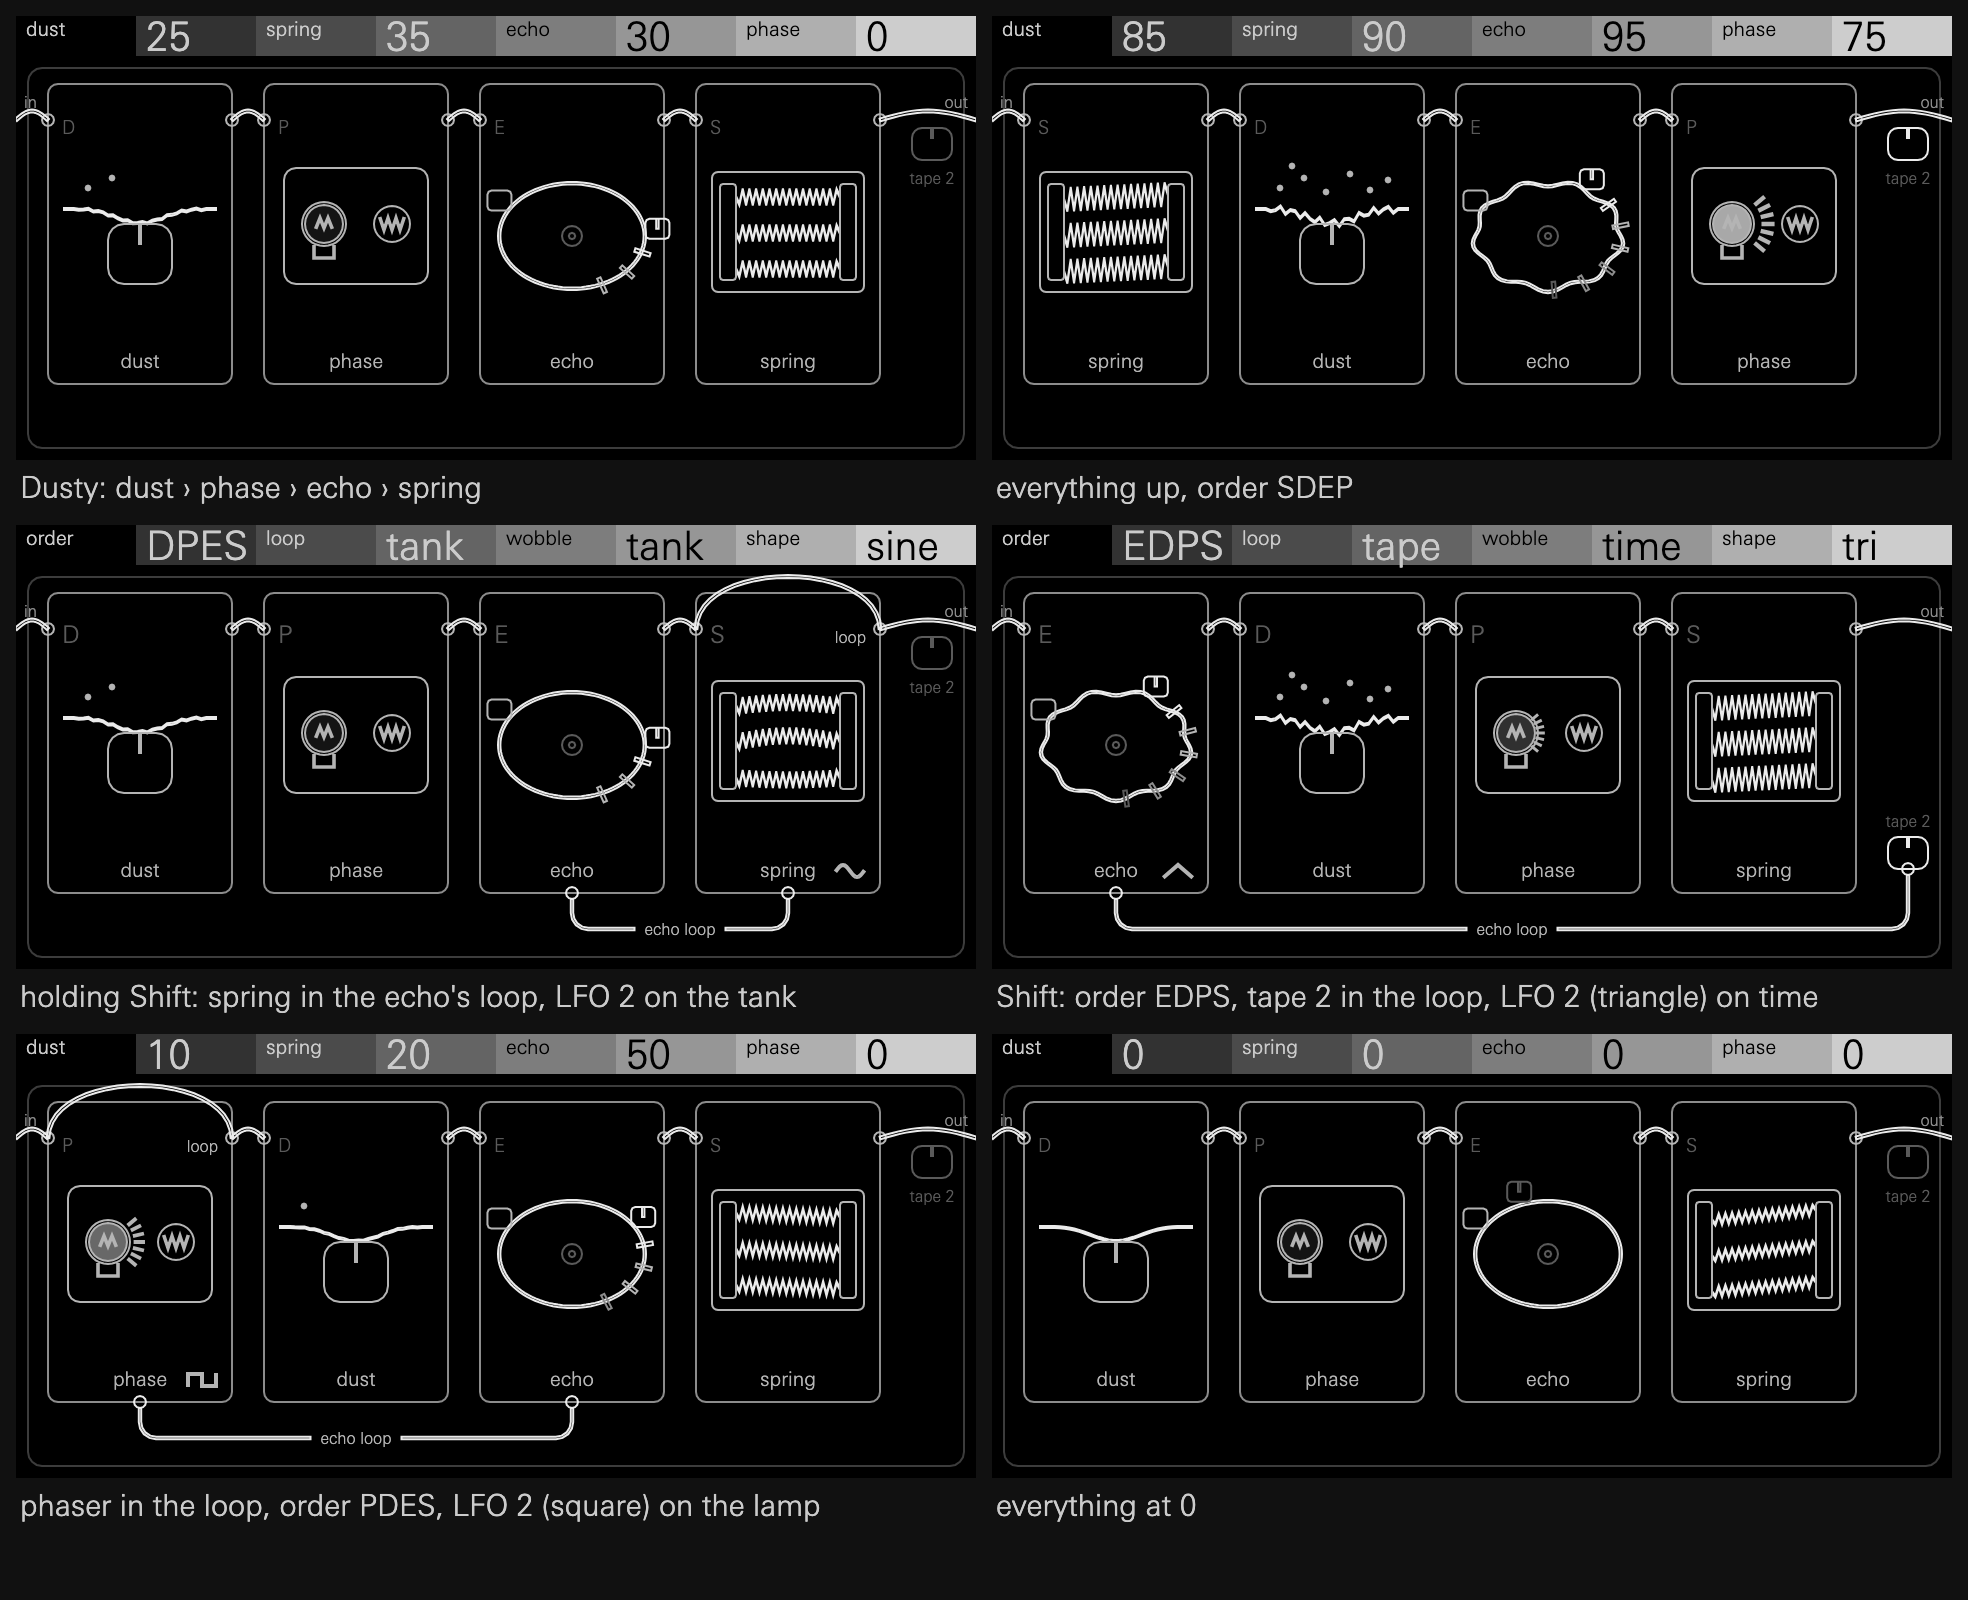
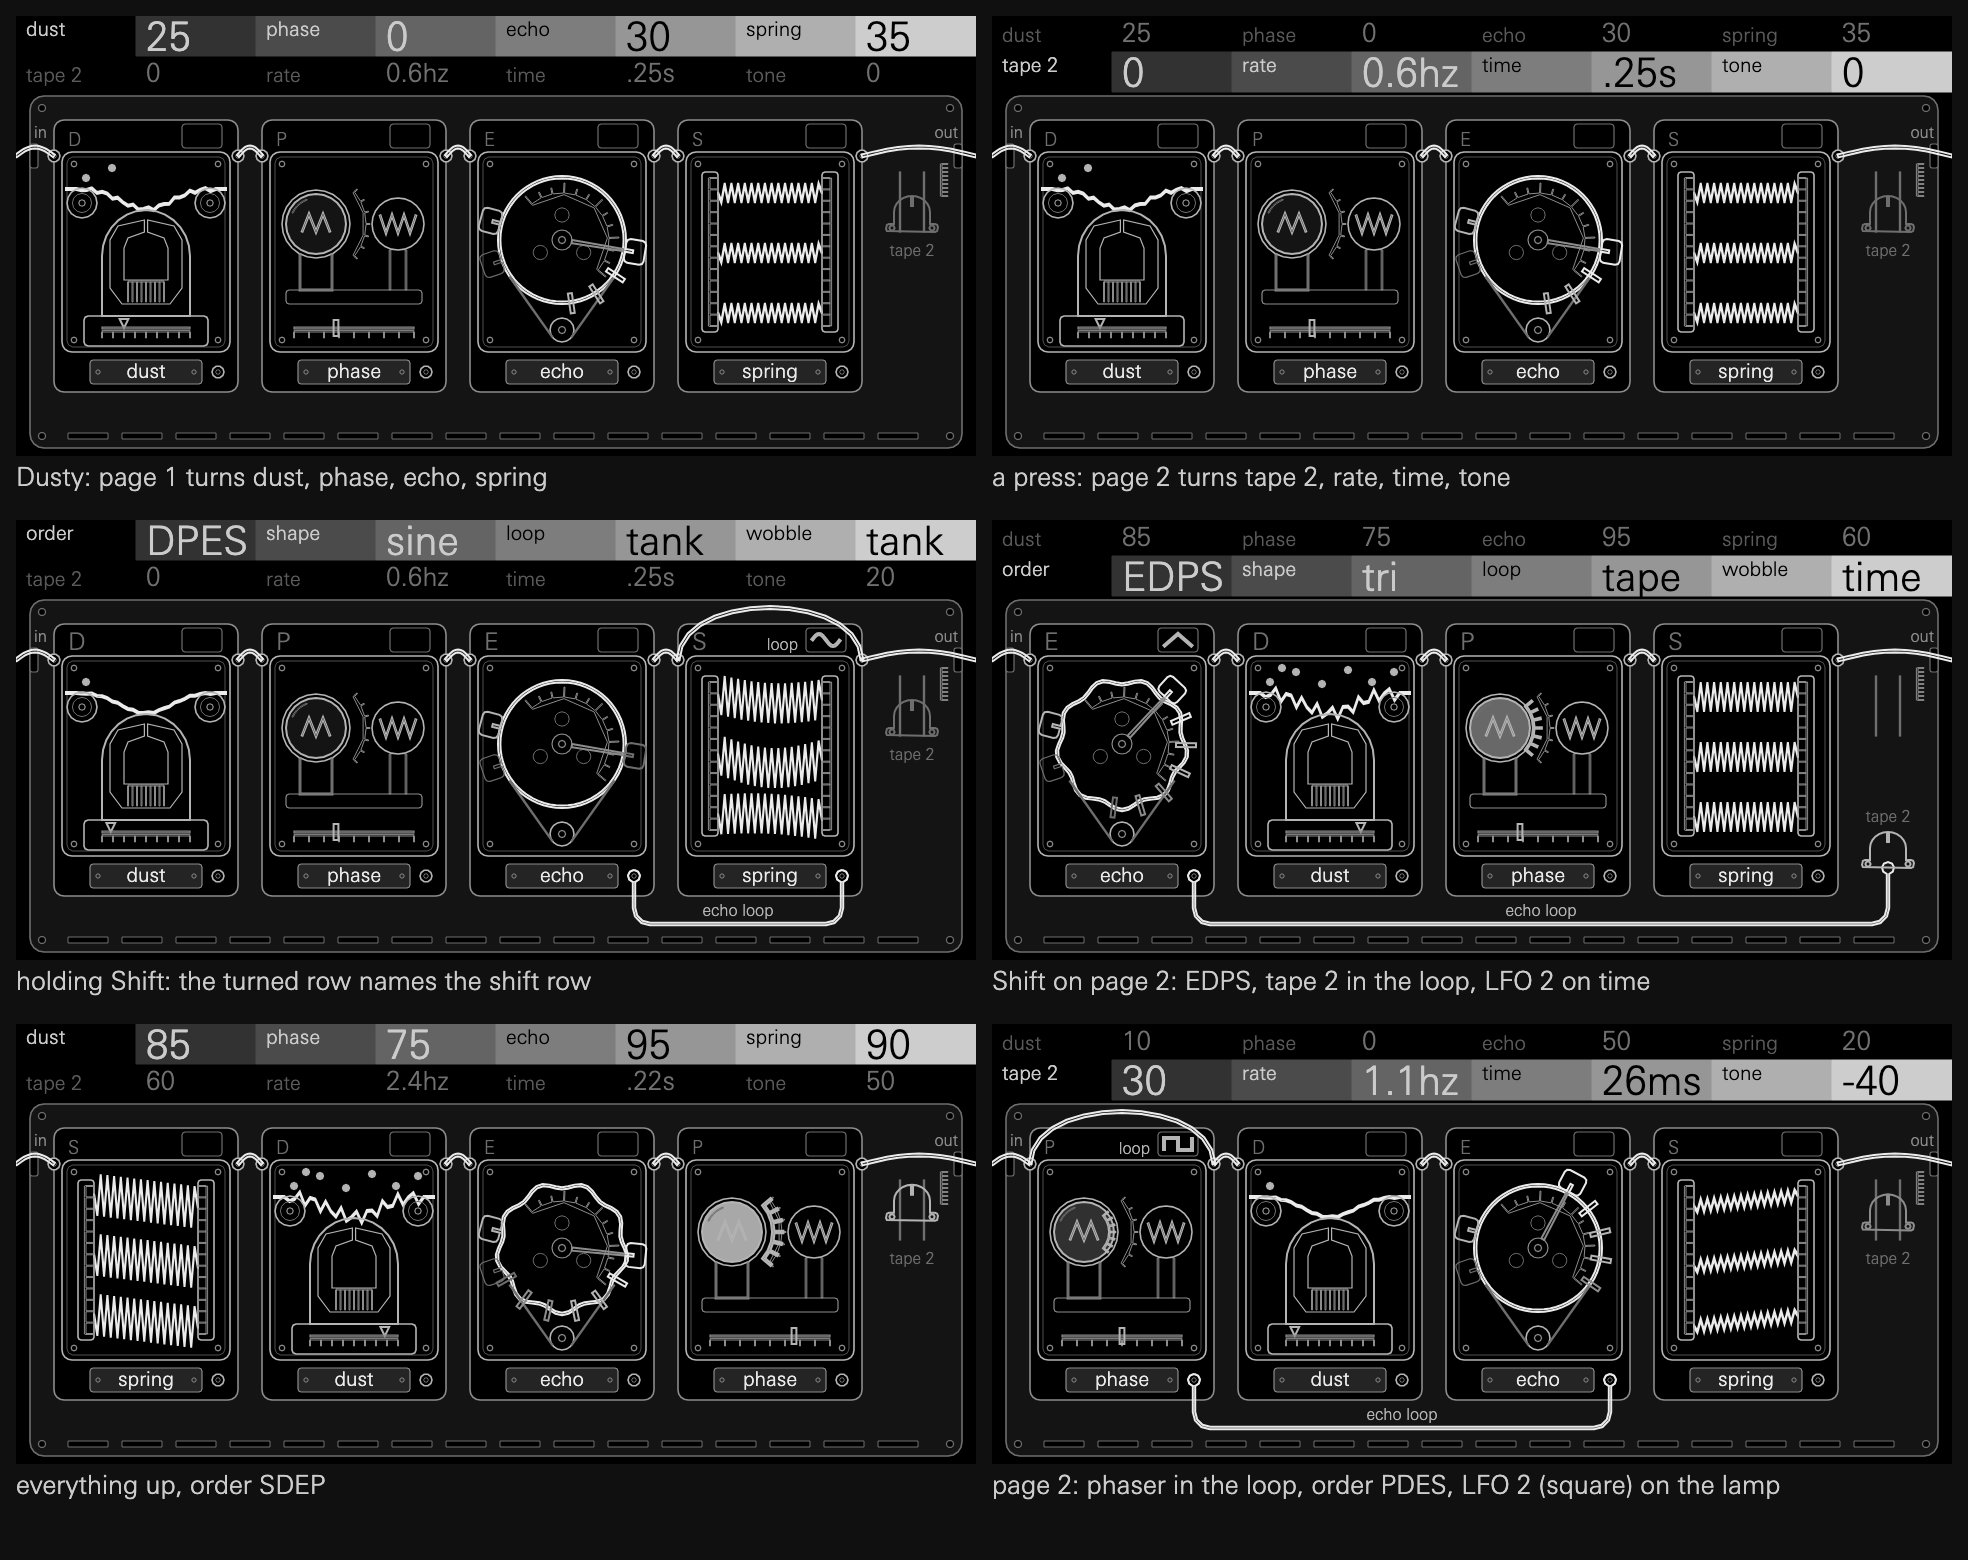
Lint's screens and READMEs for the chassis

Changed region(s): [[0.0, 0.2769, 0.9919, 0.9538], [0.0, 0.0, 0.9919, 0.2462]]

diff --git a/lint/README.md b/lint/README.md
@@ -9,7 +9,7 @@ patched into the echo's feedback loop, and two LFOs move them.
 | --- | --- | --- | --- | --- |
 | Page 1 | dust: tape 1, diode types I..V | phase: depth, wet, feedback | echo: wet and feedback; Madness above 85% | spring: drive and wet |
 | Page 2 (press) | tape 2: after the chain | rate: LFO 1, 0.17..7.5 Hz | time: 3..650 ms | tone: the tank's tilt |
-| Shift | order: DPES, DEPS, PDES, DSPE, SDEP, EDPS | shape: both LFOs (sine, tri, sqr) | loop: what's in the echo's feedback (off, tape 2, phase, tank) | wobble: LFO 2's target (off, time, tank, phase) |
+| Shift | order: DPES, DEPS, PDES, DSPE, SDEP, EDPS | shape: both LFOs (sine, tri, sqr) | loop: what's in the echo's feedback (off, tape, lamp, tank) | wobble: LFO 2's target (off, time, tank, lamp) |
 
 Page 1's encoders follow the default order, DPES, and each control on page 2
 and the shift row sits under the section it shapes. Both pages show at once,
@@ -51,21 +51,25 @@ fade in from clean over the first quarter of their controls.
 
 ![Lint's screen in six settings](screens.png)
 
-Under the two pages, the box seen from above: four bays in the chosen order
-on one patch cable. The header captions rate in hertz, time in milliseconds
+Under the two pages, a 1970s effects chassis with its lid off, seen from above:
+four screwed-in modules in the chosen order on one patch cable, each with its
+name on a riveted plaque. On the shift row, `lamp` is the phaser. The header captions rate in hertz, time in milliseconds
 (then seconds from 0.1 s) and tone from -100 to 100.
 
-- **dust:** the tape across its head wrinkles, and dust gathers on it.
-- **phase:** the lamp glows with depth and pulses with its LFO.
-- **echo:** the playback head slides round the loop with time, repeats trail
-  it with feedback, and Madness buckles the loop.
-- **spring:** the springs shake wider as they're driven, and tone tilts them.
+- **dust:** the tape across a tape head, its core and coil laid open, wrinkles,
+  dust gathers on it, and a mark moves along a wear gauge.
+- **phase:** in a light can, the lamp glows with depth and pulses with its LFO,
+  its rays reaching the photocell, and a mark on a rail shows rate.
+- **echo:** a drum in the Binson way: the playback head on its arm reads time
+  against a scale, repeats trail it with feedback, and Madness buckles the wire.
+- **spring:** in a reverb pan, the springs shake wider as they're driven, and
+  tone tilts them against the scales on the transducers.
 
 A section patched into the echo's loop leaves the cable, which hops over it,
-for one under the bays, and tape 2 drops down to it when it's the one in the
-loop. Tape 2's head rises to the cable before OUT with its level, brightening as it
-drives. A mark on a rail in the lamp's box shows rate. LFO
-2's mark, in its shape, sits on what it wobbles. Holding Shift enlarges the
+for one under the bays, plugged into a port beside each plaque, and tape 2 drops
+down to it when it's the one in the loop. Tape 2's head rises to the cable before
+OUT with its level, brightening as it drives. LFO 2's mark, in its shape, sits in
+a window at the top right of what it wobbles. Holding Shift enlarges the
 bays' letters, which the order names.
 
 Lint draws the SDK's two-page header (`opxy/page_header.hpp`) in text slots

diff --git a/README.md b/README.md
@@ -67,7 +67,7 @@ after changing a shape.
 
 ## Lint
 
-![Lint's screen in six settings: the four bays in order on one cable; everything turned up; the spring patched into the echo's loop; tape 2 in the loop; the phaser in the loop; everything at zero](docs/screens/lint.png)
+![Lint's screen in six settings: the four modules in order on one cable; everything turned up; the spring patched into the echo's loop; tape 2 in the loop; the phaser in the loop; everything at zero](docs/screens/lint.png)
 
 A 1970s effects box for a send, after Finegear's Dust Collector: two tape
 saturations, an optical phaser, a gritty PT2399-style echo and a three-spring
@@ -81,9 +81,9 @@ hold Shift for order, shape, loop, wobble
 can't ship presets, so these appear in the SDK's browser preview and not on the
 OP-XY.
 
-**The screen** is the box seen from above: its four sections as bays in the
-chosen order, joined by one patch cable from in to out. Each control moves its
-own bay. [`lint/README.md`](lint/README.md) says how.
+**The screen** is a 1970s effects chassis with its lid off, seen from above: its
+four sections as modules in the chosen order, joined by one patch cable from in to
+out. Each control moves a part of its module. [`lint/README.md`](lint/README.md) says how.
 
 Put Lint on a send with **Shift** and **M1** on FX I or II. At full send a
 track goes wholly through the box, as it would through the hardware inline;
